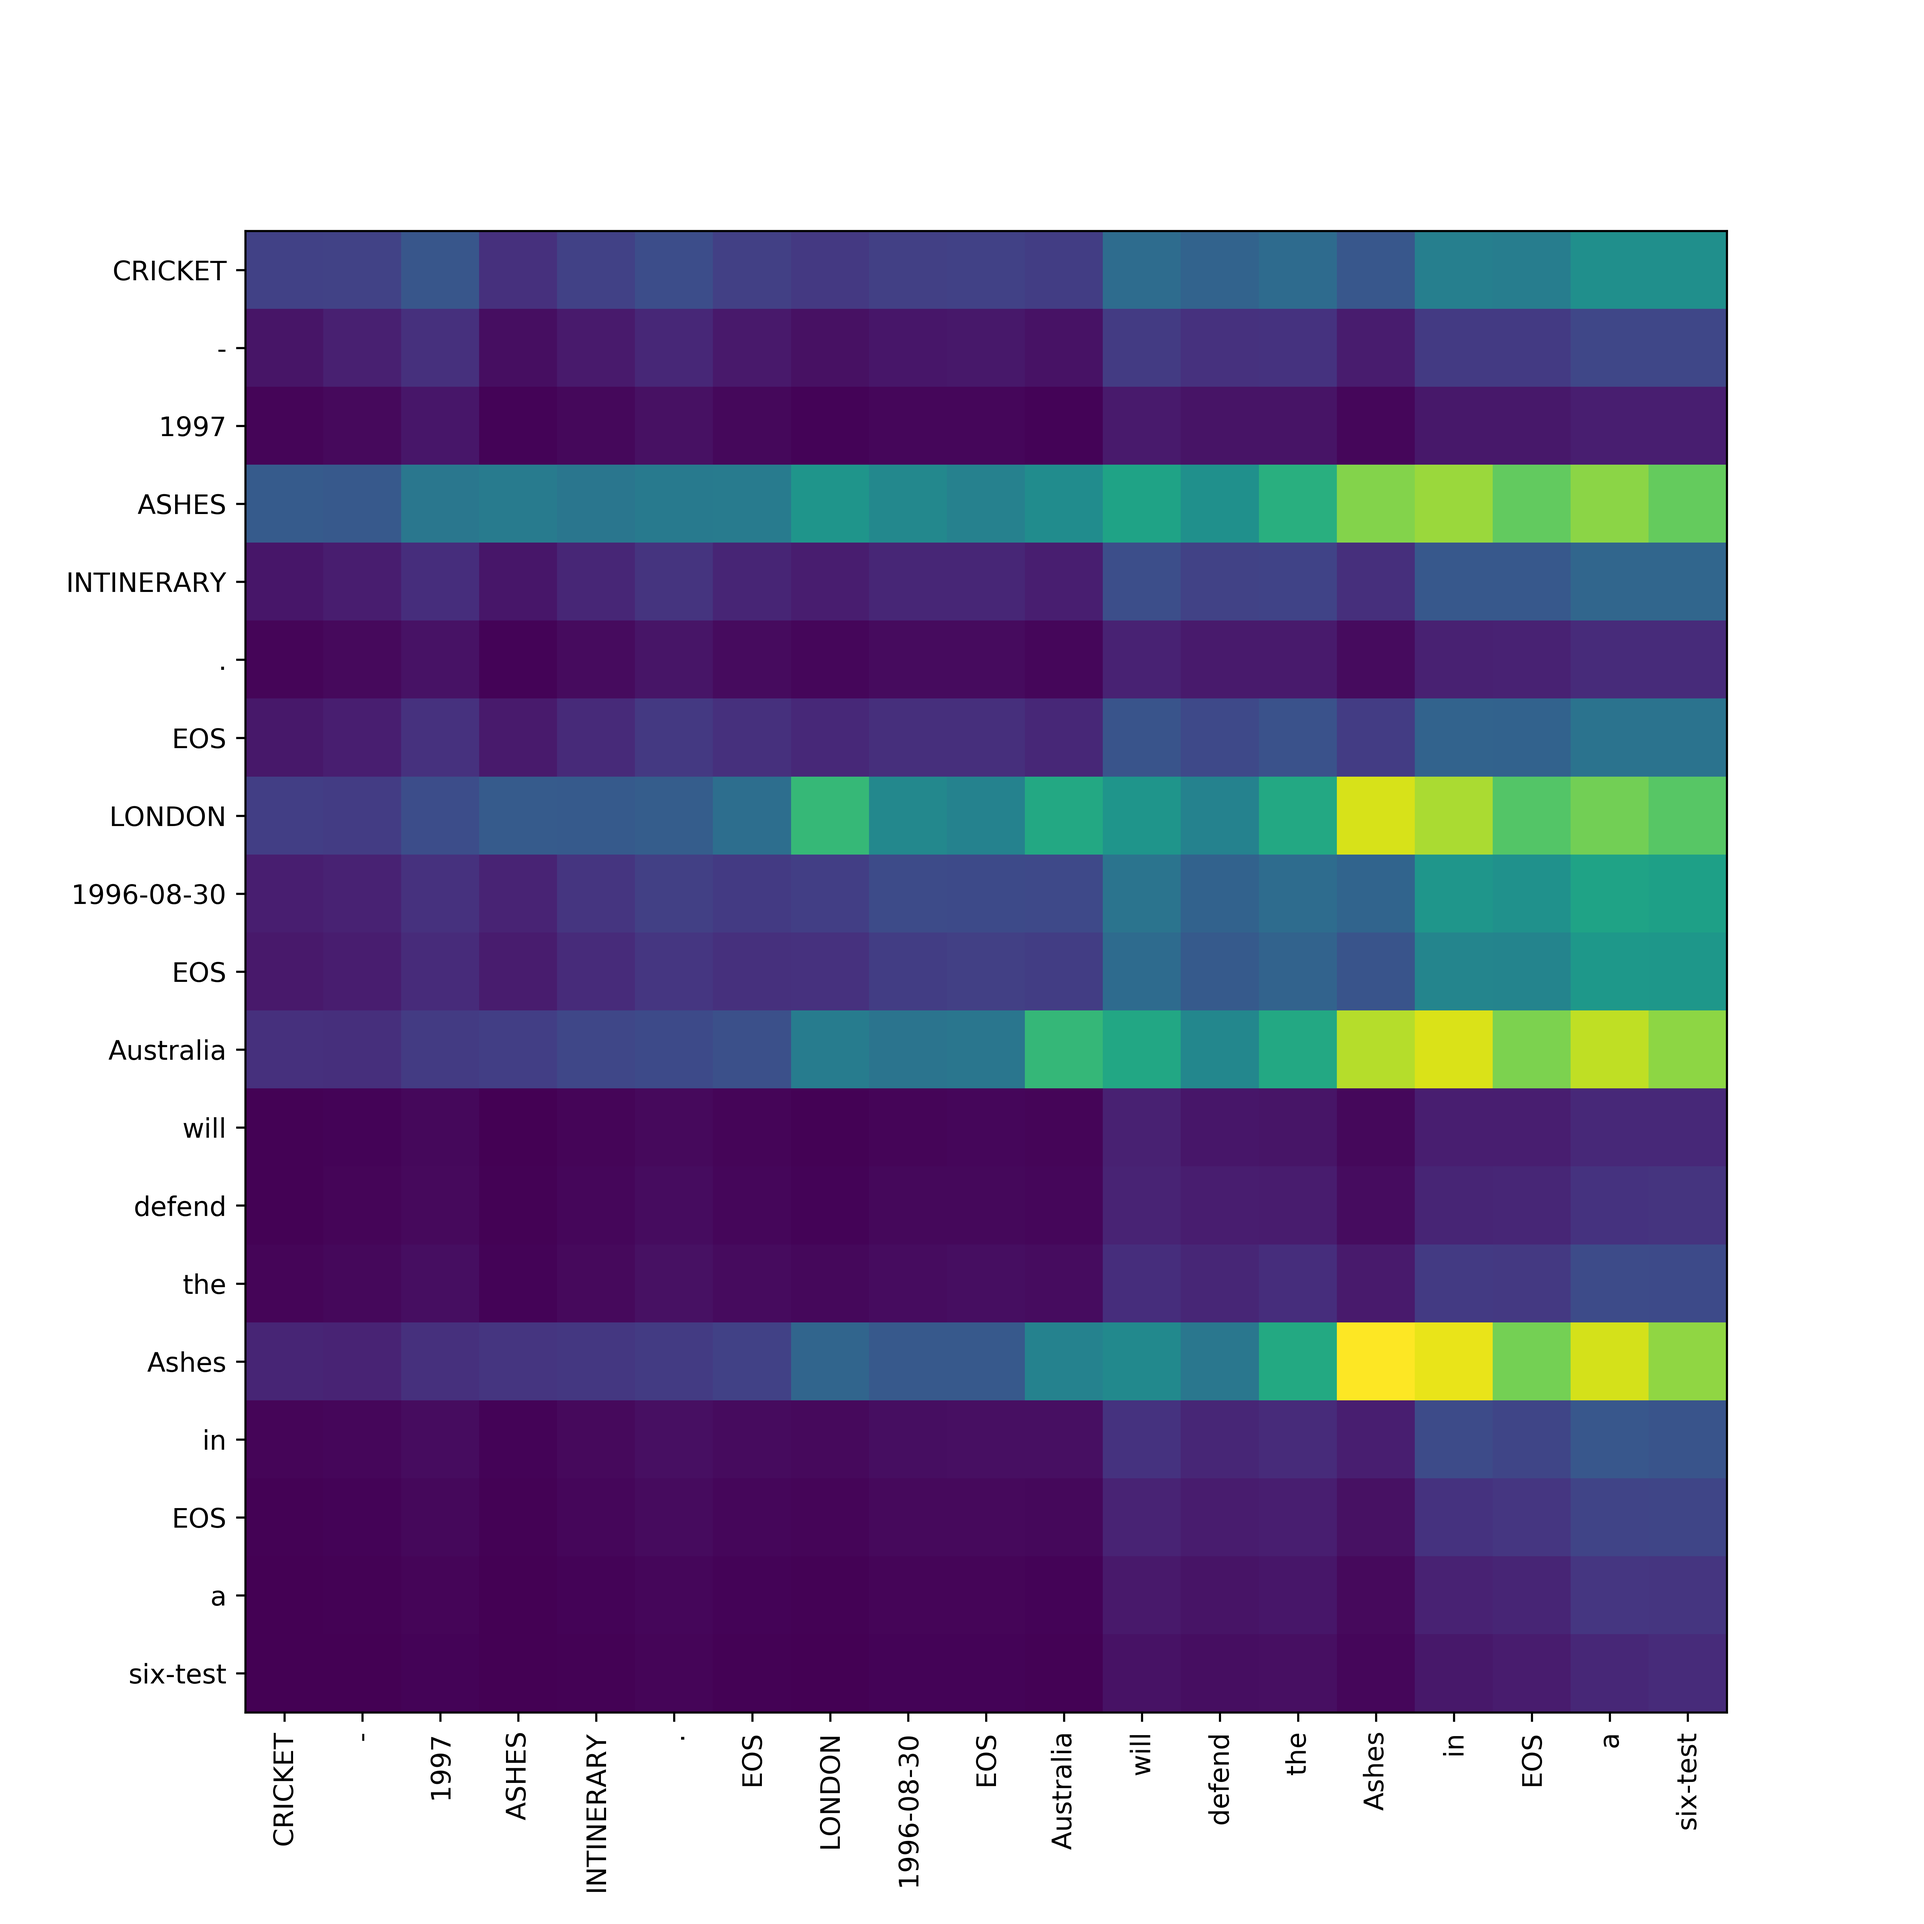
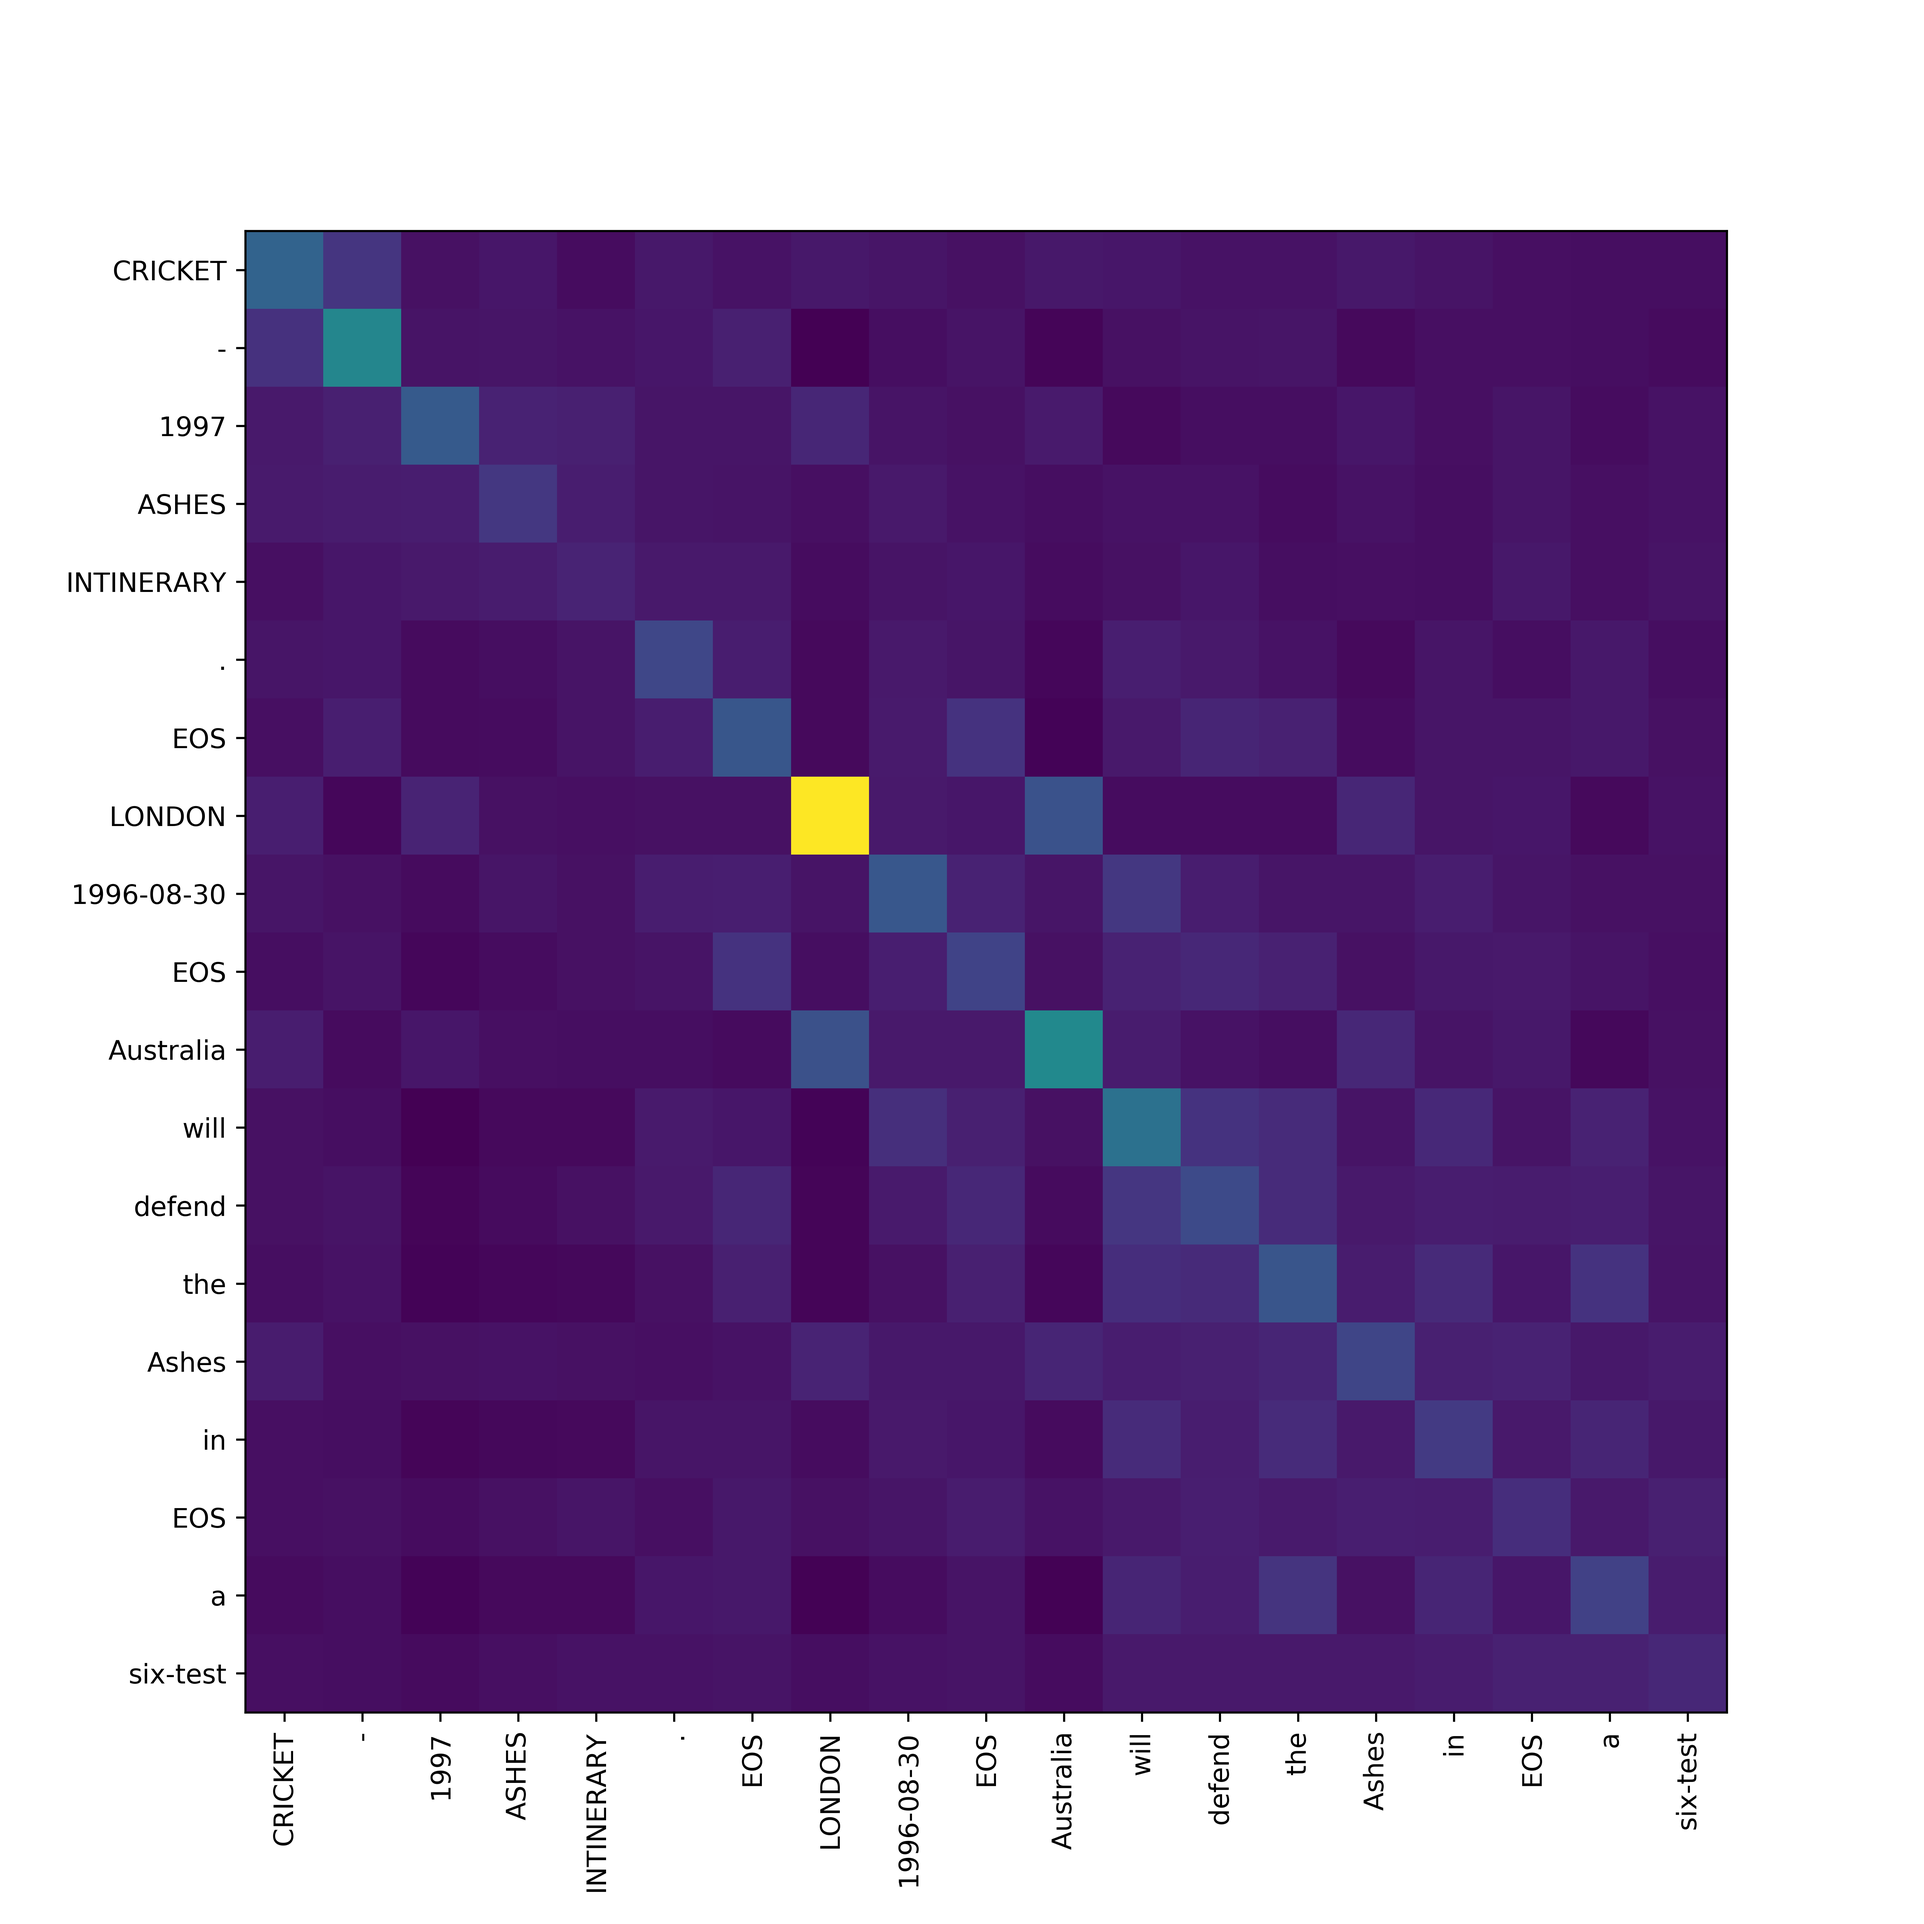
Position Embeddings

Changed region(s): [[0.1247, 0.0935, 0.9038, 0.8727], [0.6545, 0.8103, 0.7168, 0.8727]]

diff --git a/model/model.py b/model/model.py
@@ -130,7 +130,7 @@ def multi_head_self_attention(inputs, outputs):
 def attention(inputs, outputs, training=False):
   return self_attention(inputs, outputs, name='alphas0')
 
-def position_embeddings(max_length, emb_dim):
+def position_embeddings(max_length, emb_dim, inputs):
   position_emb = np.array([
       [(pos+1) / np.power(10000, 2 * (j // 2) / emb_dim) for j in range(emb_dim)]
       for pos in range(max_length)
@@ -140,7 +140,12 @@ def position_embeddings(max_length, emb_dim):
   position_emb[:,1::2] = np.cos(position_emb[:,1::2]) # dim 2i+1
 
   variable = np.vstack([position_emb, [[0.] * emb_dim]])
-  return tf.Variable(variable, dtype=tf.float32, trainable=False)
+  variable = tf.Variable(variable, dtype=tf.float32, trainable=False)
+
+  # variable = position_embeddings(5000, params['lstm_size'])
+  pos = tf.slice(tf.constant(np.arange(100000), dtype=tf.int32), [0], [tf.shape(inputs)[1]])
+  pos_embeddings = tf.nn.embedding_lookup(variable, pos)
+  return inputs + pos_embeddings
 
 def create_model():
   with Path(params['tags']).open() as f:
@@ -187,6 +192,7 @@ def create_model():
     variable = np.vstack([glove, [[0.] * params['dim']]])
     variable = tf.Variable(variable, dtype=tf.float32, trainable=False)
     word_embeddings = tf.nn.embedding_lookup(variable, word_ids)
+    word_embeddings = position_embeddings(5000, params['dim'], word_embeddings)
   
     # Concatenate Word and Char Embeddings
     embeddings = tf.concat([word_embeddings, char_embeddings], axis=-1)
@@ -194,7 +200,7 @@ def create_model():
   
   with tf.name_scope('lstm'):
     t = embeddings
-  
+
     lstm_cell_fw = tf.nn.rnn_cell.LSTMCell(params['lstm_size'])
     lstm_cell_bw = tf.nn.rnn_cell.LSTMCell(params['lstm_size'])
   
@@ -208,7 +214,11 @@ def create_model():
     output = tf.add(output_fw, output_bw, name='lstm_states')
     output = tf.layers.dropout(output, rate=0.5, training=training)
 
-    output = attention(output, output, training=training)
+    # Position embeddings.
+    # output = position_embeddings(5000, params['lstm_size'], output)
+  
+    output2 = attention(output, output, training=training)
+    output = output + output2
     logits = tf.layers.dense(output, num_tags)
     # logits = logits + att_output
 

diff --git a/test.py b/test.py
@@ -75,13 +75,13 @@ from model.metrics import evaluate
 # y = tf.reshape(y, [4, 4])
 # x = tf.concat([x, y], axis=-1)
 
-x = tf.constant([-1, 0, 2, 3], dtype=tf.float64)
-x = tf.nn.relu(x)
-
-with tf.Session() as sess:
-  sess.run([tf.initializers.global_variables(), tf.tables_initializer()])
-  res = sess.run(x)
-  print(res)
+# x = tf.constant([-1, 0, 2, 3], dtype=tf.float64)
+# x = tf.nn.relu(x)
+# 
+# with tf.Session() as sess:
+#   sess.run([tf.initializers.global_variables(), tf.tables_initializer()])
+#   res = sess.run(x)
+#   print(res)
 
 # ===================================
 # ===================================
@@ -97,3 +97,42 @@ with tf.Session() as sess:
 #       words.append(l[0])
 # 
 #   print(evaluate([preds], [labels], words, verbose=False))
+
+def position_embeddings(max_length, emb_dim):
+  position_emb = np.array([
+      [(pos+1) / np.power(10000, 2 * (j // 2) / emb_dim) for j in range(emb_dim)]
+      for pos in range(max_length)
+  ])
+  
+  position_emb[:,0::2] = np.sin(position_emb[:,0::2]) # dim 2i
+  position_emb[:,1::2] = np.cos(position_emb[:,1::2]) # dim 2i+1
+
+  variable = np.vstack([position_emb, [[0.] * emb_dim]])
+  return tf.Variable(variable, dtype=tf.float64, trainable=False)
+
+x = tf.constant([
+  [
+    [ 1, 1, 1 ],
+    [ 2, 2, 2 ],
+    [ 3, 1, 3 ],
+    [ 0, 0, 0 ],
+  ],
+  [
+    [ 0, 0, 0 ],
+    [ 2, 2, 2 ],
+    [ 3, 1, 3 ],
+    [ 0, 0, 0 ],
+  ]
+], dtype=tf.float64)
+
+y = tf.slice(tf.constant([0, 1, 2, 3, 4, 5], dtype=tf.int32), [0], [4])
+variable = position_embeddings(4, 3)
+char_embeddings = tf.nn.embedding_lookup(variable, y)
+
+x = x + char_embeddings
+
+with tf.Session() as sess:
+  sess.run([tf.initializers.global_variables(), tf.tables_initializer()])
+  res = sess.run(x)
+  print(res)
+

diff --git a/model/train.py b/model/train.py
@@ -19,8 +19,8 @@ LABEL_COL = 3
 # Params
 params = {
   'epochs': 50,
-  # 'batch_size': 1,
-  'batch_size': 20,
+  'batch_size': 1,
+  # 'batch_size': 20,
   'buffer': 15000,
   'fulldoc': True
   # 'fulldoc': False
